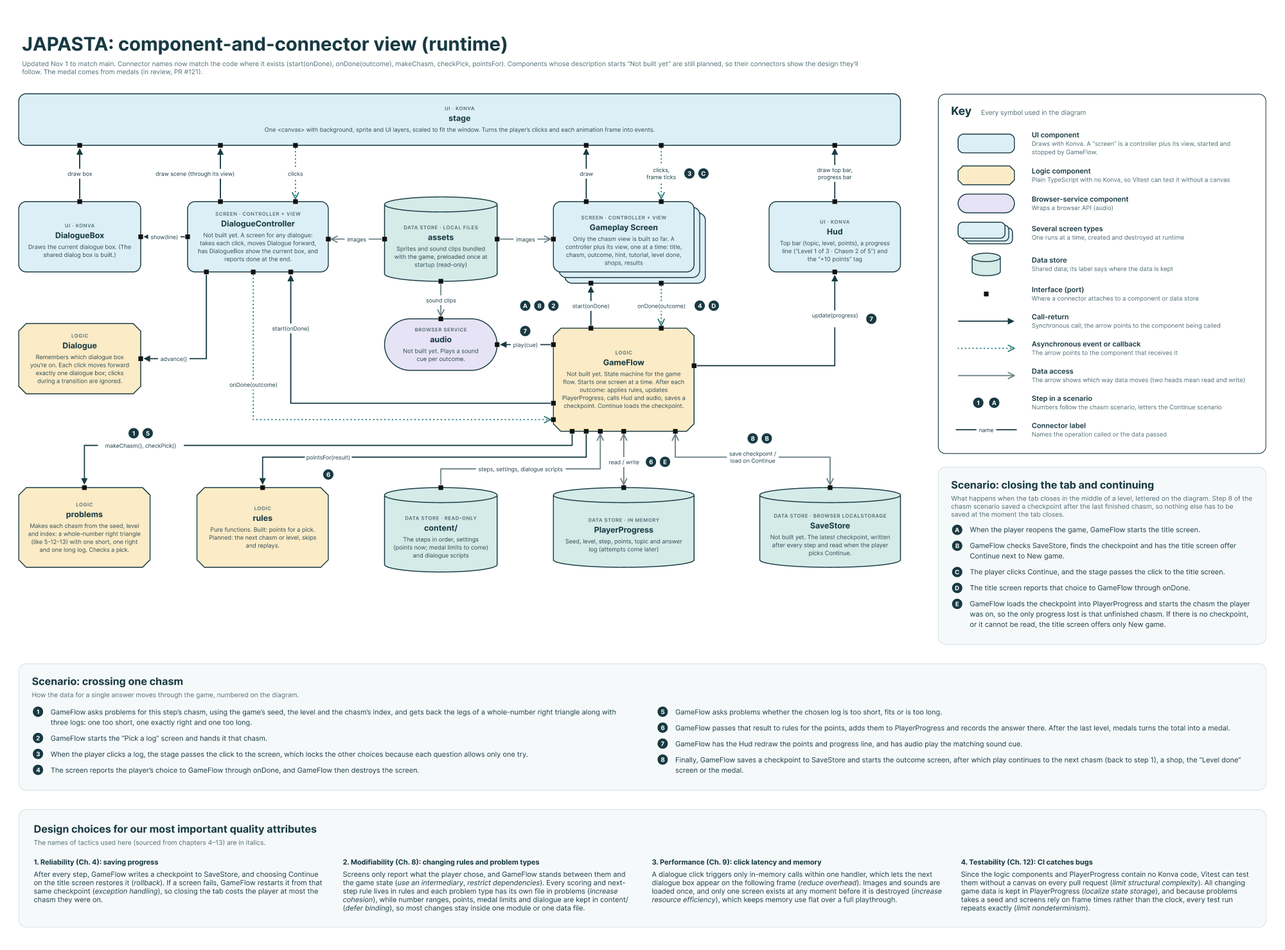
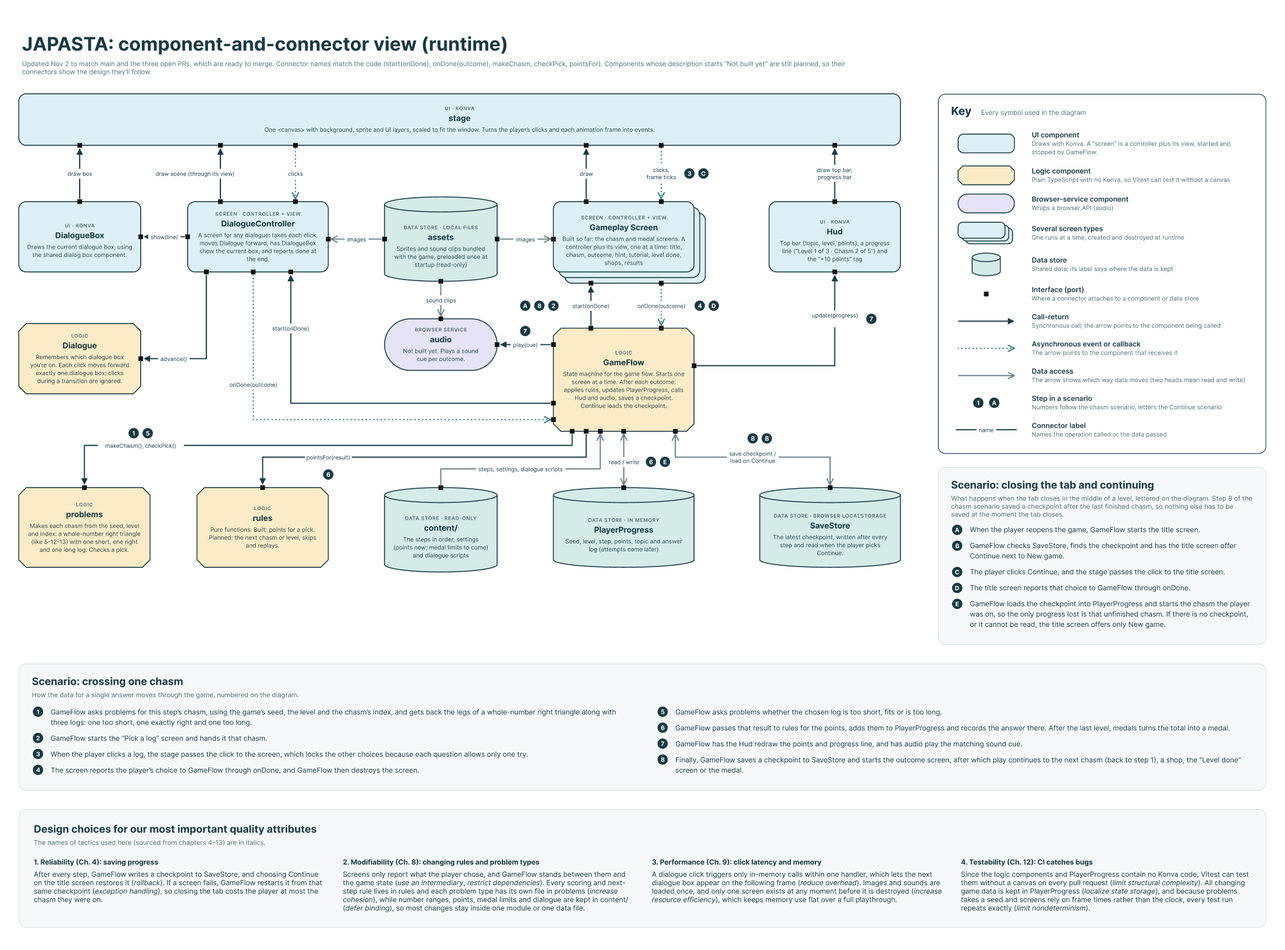
docs: update the READMEs for what merged at the end of Sprint 1
Brings the root and folder READMEs up to date with main through #143, plus the two PRs that are ready to merge (#136 and #141):

- Root README: the project's state as of Nov 2, the new features (GameFlow, the three controllers, DialogueBox, levelDone, medals, MedalScreen and SaveStore), and the current in-progress (#150) and next-up work
- controller/: GameFlow and the screen controllers, now that they're built
- model/: levelDone, medals, SaveStore and removePoints
- view/: DialogueBox, MedalScreen and fitScale
- content/: the Level done scenes and all three settings
- docs/images: re-exported module and C&C views, with built modules no longer faded

diff --git a/README.md b/README.md
@@ -1,6 +1,6 @@
 # The Math Mountaineer
 
-Here comes a fun and educational game presented by JAPASTA! Students climb a mountain to find a missing friend, crossing each chasm by picking the log that fits, which is the hypotenuse of a right triangle. Built in TypeScript, with [Konva](https://konvajs.org/) drawing on a canvas, [Vite](https://vite.dev/) running and building the game, and [Vitest](https://vitest.dev/) for tests.
+We present a fun and educational game for all those 8th graders out there! Students climb a mountain to find a missing friend, crossing each chasm by picking the log that fits, which is the hypotenuse of a right triangle. Built in TypeScript, with [Konva](https://konvajs.org/) drawing on a canvas, [Vite](https://vite.dev/) running and building the game, and [Vitest](https://vitest.dev/) for tests.
 
 ---
 
@@ -18,9 +18,9 @@ Here comes a fun and educational game presented by JAPASTA! Students climb a mou
 
 ## Where the Project Stands
 
-*Written November 1, 2026*
+*Up-to-date as of November 2, 2026*
 
-We built and tested the pieces of the chasm, including the problems, the chasm screen, the points, the player's progress and the Hud. What we are currently working on is the part that joins them into a game. Next up are GameFlow, which plays the game's steps in order, and the controllers that run each screen. Until they land, `npm run dev` shows the game title and nothing more.
+We built and tested every piece of the core game, including the chasm problems and screen, the points and medals, the player's progress and its saving, the Hud, the dialogue, and GameFlow, which plays the game's steps in order with a controller for each screen. What we are currently working on is joining them in `main.ts`, which still draws only the game title. Until that lands, `npm run dev` shows the title and nothing more, and the quickest way to see the whole game's flow is `tests/controller/GameFlow.test.ts`.
 
 What this means for our team:
    - **Model, view, and content code can be built and tested on its own.** (Nothing in those folders needs the game to be running.)
@@ -65,7 +65,7 @@ These are the same two checks CI runs on every pull request, so if both pass on 
 These are grouped by what they're for. Each links to its section in the folder docs, which share greater detail.
 
 1. **The canvas and the look of the game**:
-   - [stage](src/view/README.md#stage): The game draws in a fixed 960 × 540 space, and the stage scales it to the largest 16:9 box that fits the browser window.
+   - [stage](src/view/README.md#stage): The game draws in a fixed 960 × 540 space, and the stage scales it to the largest 16:9 box that fits the browser window, with tests across many window sizes.
    - [theme](src/view/README.md#theme): Every color from the Figma mockups, and the text styles we use so far, kept in one place in the code.
    - [fonts and assets](src/view/README.md#fonts-and-assets): The Inter font and the game's images ship with the game and load once, before anything is drawn. Sounds will load the same way once they're added. A file that fails is swapped for a placeholder instead of stopping the game.
    - [Shared components](src/view/README.md#shared-components): The button, log button, top bar and dialog box from the mockups, for every screen to reuse.
@@ -76,14 +76,25 @@ These are grouped by what they're for. Each links to its section in the folder d
    - [rules](src/model/README.md#rules): Ensures only the log that fits earns the corresponding 10 points.
 
 3. **Story and progress**:
-   - [dialogueScripts](src/content/README.md#dialoguescripts): The intro and "how crossing works" scenes.
+   - [dialogueScripts](src/content/README.md#dialoguescripts): The intro, the "how crossing works" scene, and the two Level done messages.
    - [Dialogue](src/model/README.md#dialogue): Tracks which dialogue box is showing, one box per click, and ignores fast double clicks.
+   - [DialogueBox](src/view/README.md#dialoguebox): Shows each dialogue line in the shared dialog box, with a Continue button or the line's own choices.
    - [levels](src/content/README.md#levels): The game's steps in order: the title, the intro, 15 chasms over 3 levels, a Level done step after Levels 1 and 2, and the medal.
    - [PlayerProgress](src/model/README.md#playerprogress): The player's level, step, points, topic and every answer, in a form that can be saved.
+   - [SaveStore](src/model/README.md#savestore): Saves one checkpoint in the browser's storage and loads it back, refusing anything that isn't a valid save.
    - [Hud](src/view/README.md#hud): The top bar with topic, level and points, a "Level 1 of 3 · Chasm 2 of 5" line, and a "+10 points" tag after a correct pick.
 
-**In review**: the medal rules (PR #121), the medal screen (PR #136) and the tests for fitting the stage to the window (PR #141).\
-**Next up**: GameFlow (#6), ChasmController (#24), DialogueController (#18), SaveStore (#67) and publishing the game to GitHub Pages (#9).
+4. **The end of a level, and of the game**:
+   - [levelDone](src/model/README.md#leveldone): Picks the Level done message from the points earned on that level, either congratulations or an offer to restart it, and fills in the level number.
+   - [medals](src/model/README.md#medals): Turns the final points into a diamond, gold, silver or bronze medal (or none), using the limits in settings.
+   - [MedalScreen](src/view/README.md#medalscreen): Draws the medal the player earned, the medal requirements, and a See Results button.
+
+5. **Running the game**:
+   - [GameFlow](src/controller/README.md#gameflow): Plays every step in order, one screen at a time, and decides what happens after each one, including scoring a pick, restarting a level, and saving a checkpoint.
+   - [The screen controllers](src/controller/README.md#the-screen-controllers): ChasmController, DialogueController and MedalController each run one kind of screen for GameFlow.
+
+**In progress**: joining everything in `main.ts`, so the game plays from the intro to the medal (#150).\
+**Next up**: publishing the game to GitHub Pages (#9), and, in Sprint 2, the title screen (#70), the sounds (#25), the "How to find the right log" screen (#48), and the shops.
 
 ---
 
@@ -94,12 +105,12 @@ These are grouped by what they're for. Each links to its section in the folder d
 
 We follow MVC, with a fourth folder for data. Each of these is a folder in `src/` and offers its own README:
 
-1. **[model/](src/model/README.md)**: Stores and offers game state and math in plain TypeScript, with no drawing, allowing it to be tested without a browser. Herein live problems, rules, the dialogue position, and the player's progress.
+1. **[model/](src/model/README.md)**: Stores and offers game state and math in plain TypeScript, with no drawing, allowing it to be tested without a browser. Herein live problems, rules, medals, the dialogue position, the player's progress, and saving.
 2. **[view/](src/view/README.md)**: Handles everything drawn with Konva. A view may read the model to know what to draw and reports clicks through callbacks it's given, but it never decides what a click means or changes game state.
-3. **[controller/](src/controller/README.md)**: Decides what happens next. GameFlow will play the game's steps one screen at a time, and every screen follows the same `Screen` contract. For each one, GameFlow starts it, and it reports back once, via `onDone`, with what the player chose.
+3. **[controller/](src/controller/README.md)**: Decides what happens next. GameFlow plays the game's steps one screen at a time, and every screen follows the same `Screen` contract. For each one, GameFlow starts it, and it reports back once, via `onDone`, with what the player chose.
 4. **[content/](src/content/README.md)**: Has the game's text and numbers as data, so changing the story or a point value never requires editing the game code itself.
 
-`main.ts` brings it all together. It waits for the images and fonts, creates the stage, and (once GameFlow lands) starts the game.
+`main.ts` brings it all together. Today, it waits for the images and fonts and creates the stage. Next, it will create GameFlow, along with a screen for each kind of step, and start the game.
 
 **What may use what**\
 The arrows in the diagram are rules we follow: `controller/` may use the other three; `view/` may read `model/` and `content/`; `model/` may read `content/`; and `content/` uses nothing. Only `main.ts` uses `controller/`. Our reviews treat breaking one of these as a must-fix.
@@ -117,7 +128,7 @@ src/
   model/           Game state and math (no Konva!)
   view/            Everything drawn with Konva
     components/    The shared button, log button, top bar and dialog box
-  controller/      The Screen contract; GameFlow and the controllers come next
+  controller/      GameFlow, the Screen contract, and one controller per kind of screen
   content/         Level steps, dialogue scripts and settings
 tests/             Mirrors src/, with one test file per module
 public/assets/     Images (and soon sounds), served as they are

diff --git a/src/controller/README.md b/src/controller/README.md
@@ -10,18 +10,18 @@ May import `model/`, `view/`, and `content/`. Nothing else imports from here exc
 
 - [Overview](#overview)
 - [Screen](#screen)
-- [GameFlow (in progress)](#gameflow-in-progress)
-- [The screen controllers (in progress)](#the-screen-controllers-in-progress)
+- [GameFlow](#gameflow)
+- [The screen controllers](#the-screen-controllers)
 - [Crossing one chasm, start to finish](#crossing-one-chasm-start-to-finish)
 
 ---
 
 ## Overview
 
-This is the folder that turns our separate screens into a game. Right now, it holds one file, the `Screen` contract, which everything else is being built against. GameFlow and the controllers are the next pieces to land, so the sections below describe the design they will follow.
+This is the folder that turns our separate screens into a game. It holds the `Screen` contract, GameFlow, which plays the game's steps, and a controller for each kind of screen built so far. The last piece is in `main.ts`, which still needs to create GameFlow with a screen for each step and start it.
 
 <img src="../../docs/images/cc-view.png" width="900" />\
-*The runtime (C&C) view, showing what talks to what while the game runs. Connector names match the code where it exists, and components marked "Not built yet" show the design. View the live version in [Figma](https://www.figma.com/design/LLtfHewfTMLycUXFUVuyEH).*
+*The runtime (C&C) view, showing what talks to what while the game runs. Connector names match the code, and components marked "Not built yet" show the design. View the live version in [Figma](https://www.figma.com/design/LLtfHewfTMLycUXFUVuyEH).*
 
 ---
 
@@ -39,36 +39,48 @@ Each screen reports an `Outcome`, which is either `done` or a `choice` holding t
 
 ---
 
-## GameFlow (in progress)
+## GameFlow
 
 **Purpose**\
-Runs the whole game by playing the steps in `content/levels` in order, one screen at a time, and deciding what happens after each one. It is the only thing that changes `PlayerProgress` ([#6](https://github.com/ilovelogic/the-math-mountaineer-team-7/issues/6)).
+Runs the whole game by playing the steps in `content/levels` in order, one screen at a time, and deciding what happens after each one. It is the only thing that changes `PlayerProgress`.
 
-**After each screen**\
-Checks the player's choice with `model/problems`, turns it into points with `model/rules`, and updates `PlayerProgress`, the Hud, and the sound. Once SaveStore lands, it also saves a checkpoint after every step, so a closed tab loses at most the current chasm ([#68](https://github.com/ilovelogic/the-math-mountaineer-team-7/issues/68)).
+**What it's given**
+   - `steps`: The game's script from `content/levels`.
+   - `progress`: The player's `PlayerProgress`, new or loaded from a save.
+   - `makeScreen`: A function that turns a `ScreenRequest` into a `Screen`. A request is a step with everything its screen needs filled in, such as the chasm built from the game's seed, or the points earned on a level for its Level done message.
+   - **Options** (each optional, so tests pass only what they check): the Hud to keep up to date, a `save` function such as SaveStore's, and a `playCue` function for the sound after a pick.
+
+**After each screen**
+   - **After a chasm**, GameFlow checks the pick with `model/problems`, turns it into points with `model/rules`, records the answer and adds the points to `PlayerProgress`, and then has the Hud redraw and show its "+ points" tag.
+   - **After a Level done message** where the player missed points and chose to restart, it takes back that attempt's points (so they can be earned again) and goes back to the level's first chasm. Choice 0 means restart, matching the order in `model/levelDone`.
+   - **After any step**, it saves a checkpoint that points at the step to play next, so a closed tab loses at most that step.
+
+**Reports that arrive late**\
+GameFlow counts each time a screen starts or stops, and ignores anything reported by a screen that's no longer current. As a result, a slow click on a screen that has already ended can never move the game forward twice.
 
 **Testing it**\
-GameFlow gets its screens through a function it's given. Accordingly, its tests can pass in stand-in screens that report a choice right away, which lets us test GameFlow before the real screens are wired up.
+GameFlow gets its screens through `makeScreen`. Accordingly, its tests pass in stand-in screens that report a choice right away, which lets us test the whole game's flow without drawing anything. `newSeed` takes its random numbers as a parameter for the same reason, so a test can start a game with a fixed seed.
 
 ---
 
-## The screen controllers (in progress)
+## The screen controllers
 
 Each one pairs a view from `view/` with the `Screen` contract:
-   - **ChasmController**: Shows one chasm, takes only the first pick, locks the logs, and reports the pick ([#24](https://github.com/ilovelogic/the-math-mountaineer-team-7/issues/24)).
-   - **DialogueController**: Shows any dialogue scene one box per click and reports when it ends, including which button was picked on a Level done screen ([#18](https://github.com/ilovelogic/the-math-mountaineer-team-7/issues/18)).
-   - **MedalController**: Shows the earned medal at the end of the game ([#43](https://github.com/ilovelogic/the-math-mountaineer-team-7/issues/43)).
-   - **TitleController, DuelShopController, and ZiplineShopController**: Run the title screen and the two shop mini-games, which are planned for Sprint 2.
+   - **ChasmController**: Shows one chasm, takes only the first pick, locks the logs, and reports the pick. It works with any `ChasmView` (anything with `draw`, `onLogClicked`, `lock` and `destroy`), so its tests use a fake view instead of `ChasmScreen`.
+   - **DialogueController**: Plays one dialogue scene, from `content/dialogueScripts` or `model/levelDone`, one box per click, and reports when it ends, including which button was picked on a box with choices. The click time comes from a clock it's given, so tests can use a fake one, and the transition length comes from `settings`.
+   - **MedalController**: Works out the medal from the player's points with `model/medals`, has `MedalScreen` draw it, and reports `done` once when the player presses See Results. It reads the points when it starts, so it can be created before the last chasm is scored.
+
+**Still to come**: TitleController (#70), the controller for the "How to find the right log" screen (#48), and DuelShopController and ZiplineShopController for the two shop mini-games, planned for Sprint 2.
 
 ---
 
 ## Crossing one chasm, start to finish
 
-Once GameFlow and ChasmController are in place, a single answer moves through the game as follows:
+A single answer moves through the game as follows:
    1. GameFlow asks `problems` for this step's chasm, using the game's seed, the level, and the chasm's position.
    2. GameFlow starts ChasmController with that chasm, and ChasmController has ChasmScreen draw it.
    3. The player clicks a log. ChasmController takes that first pick, locks the logs on ChasmScreen (since each chasm allows only one pick), and reports the log's position to GameFlow via `onDone`.
    4. GameFlow asks `problems` whether that log fits, is too short, or is too long.
    5. GameFlow gets the points from `rules`, adds them to `PlayerProgress`, and records the answer.
-   6. GameFlow has the Hud redraw and plays the matching sound.
+   6. GameFlow has the Hud redraw and plays the matching sound (once the sounds are added).
    7. GameFlow saves a checkpoint and moves on to the next step.

diff --git a/src/model/README.md b/src/model/README.md
@@ -1,6 +1,6 @@
 # model/
 
-Maintains the game state and math in plain TypeScript. From it, get problems, rules, medals, `Dialogue`, `PlayerProgress` and `SaveStore` (medals and `SaveStore` are still to come).
+Maintains the game state and math in plain TypeScript. From it, get problems, rules, medals, the Level done messages, `Dialogue`, `PlayerProgress` and `SaveStore`.
 
 Never imports Konva, `view/` or `controller/`, so every model runs in Vitest without a browser. Take seeds and times as parameters instead of calling `Math.random()` or `Date.now()`.
 
@@ -13,6 +13,9 @@ Never imports Konva, `view/` or `controller/`, so every model runs in Vitest wit
 - [Dialogue](#dialogue)
 - [problems](#problems)
 - [rules](#rules)
+- [levelDone](#leveldone)
+- [medals](#medals)
+- [SaveStore](#savestore)
 - [Still to come](#still-to-come)
 
 ---
@@ -42,6 +45,7 @@ Where the player is and how they're doing. Here, we have the game's seed, the cu
    - **`addPoints`** adds to the total. Zero is allowed, since a wrong pick earns nothing, but a negative number is refused.
    - **`moveTo`** goes to another step, and also changes the level and topic when a new level starts.
    - **`recordAnswer`** adds a pick to `answers`.
+   - **`removePoints`** takes points back when the player restarts a level, so its points can be earned again. The answers stay, since they're the record of every pick, and it never takes more than the player has.
 
 **Saving**\
 `toJSON` turns the progress into plain data that's safe to store, and `fromJSON` rebuilds it, refusing anything that isn't a valid save. The saved data carries a version number, so a later save format can tell old saves apart.
@@ -90,9 +94,44 @@ Small, pure rules that turn outcomes into points and, later, into decisions abou
 
 ---
 
+## levelDone
+
+**Purpose**\
+Gives GameFlow the dialogue for the end of Levels 1 and 2.
+
+**How it works**\
+**`levelDoneLines`** takes the level, the points earned on that level alone (not the game's total), and the most the player could have earned on it. A player with every point is congratulated with one button to continue, and anyone short of that is offered a restart. The words themselves live in `content/dialogueScripts`, with `{level}` marking where the level number goes.
+
+**The choices**\
+On the restart offer, choice 0 restarts the level and choice 1 moves on. GameFlow reads the choice by its position, so a test pins that order, and reordering the buttons in content fails it instead of quietly changing what they do.
+
+---
+
+## medals
+
+**Purpose**\
+Turns the final points into a medal, which is diamond, gold, silver, bronze, or none.
+
+**How it works**\
+**`medalFor`** takes the points and the medal limits from `content/settings` (150, 135, 105 and 75 today), and gives the best medal whose limit the points reach. It refuses negative points, and limits that don't strictly decrease from diamond down to bronze, since either one means a mistake somewhere else.
+
+---
+
+## SaveStore
+
+**Purpose**\
+Puts one checkpoint into the browser's storage and gets it back, so closing the tab doesn't lose the player's progress.
+
+**The storage is passed in**\
+In the game, `main.ts` will pass in the browser's `localStorage`. In the tests, a pretend storage stands in, one that can be empty, hold garbage, or refuse to work, so every failure case is tested without a browser.
+
+**When something goes wrong**\
+**`save`** fails quietly if storage is blocked. **`load`** returns `null` when there's no save, when the save can't be read, or when it isn't a valid save, since it checks each one with `PlayerProgress.fromJSON`. As a result, anything `load` does return is safe to continue from.
+
+---
+
 ## Still to come
 
-   - **medals**: Turns the final points into a medal. In review in PR #121.
-   - **SaveStore**: Saves one checkpoint in the browser's storage and loads it back (#67). Saving after every step (#68) and the Continue button (#70) come later and will use it.
+   - **solutionSteps** (#48): The worked steps for finding the right log, using the chasm's own numbers, for the "How to find the right log" screen.
    - **More problem types**: The duel question (#56), which goes in `problems`, and the 3D zipline problem (#62), which gets its own file next to it.
    - **More rules**: Skipping a level after winning the duel (#58), the zipline's points (#63), and the easier round after struggling (#88).

diff --git a/src/view/README.md b/src/view/README.md
@@ -16,6 +16,8 @@ May import Konva, other `view/` files, and `model/` or `content/` to read what t
 - [Shared components](#shared-components)
 - [Screens and the Hud](#screens-and-the-hud)
   - [ChasmScreen](#chasmscreen)
+  - [DialogueBox](#dialoguebox)
+  - [MedalScreen](#medalscreen)
   - [Hud](#hud)
 - [Still to come](#still-to-come)
 
@@ -40,7 +42,7 @@ Creates the game's one Konva stage, inside the page's `game` element, with three
    - `ui`: Buttons, boxes and the Hud.
 
 **Fitting the window**\
-The stage is scaled to the largest 16:9 box that fits the browser window, and rescaled whenever the window changes size. Views keep using 960 × 540 coordinates, and Konva maps clicks back through the scale.
+The stage is scaled to the largest 16:9 box that fits the browser window, and rescaled whenever the window changes size. Views keep using 960 × 540 coordinates, and Konva maps clicks back through the scale. The scale itself comes from **`fitScale`**, a small function kept apart from the resizing so its tests can check many window sizes without a browser.
 
 **How it's used**\
 `main.ts` calls **`createStage`** once at startup. Views receive its layers instead of making their own, and only this file creates a stage (a test checks that).
@@ -92,6 +94,22 @@ The stage's layers and a chasm to draw: its two sides and the log lengths, in th
 **What it reports**\
 Each click on a log button reports that log's position in the list. Once its controller **`lock`**s it, it stops reporting clicks and shows the picked log as used. **`destroy`** removes everything it drew.
 
+### DialogueBox
+
+**Purpose**\
+Shows one dialogue line at a time in the shared dialog box. A line with no choices gets a Continue button, while a line that ends a scene, like a Level done message, shows its own choices instead.
+
+**What it reports**\
+Either way, a click reports the button's position, and the DialogueController decides what it means. **`destroy`** removes the box. The speaker's name isn't drawn yet, since every line so far is the Narrator's.
+
+### MedalScreen
+
+**Purpose**\
+Draws the end screen like the "End: medal" mockup, which is made up of the medal the player earned, a sentence about it, the medal requirements, and a See Results button.
+
+**How it's used**\
+**`drawMedalScreen`** is given the stage's layers, the medal and points (which MedalController works out), and a callback for See Results. It returns a function that removes everything it drew, to call when the screen ends. For now, it draws its own mountain background; the mockup uses the glacier background instead, which #138's plan to load backgrounds as images would fix.
+
 ### Hud
 
 **Purpose**\
@@ -104,7 +122,7 @@ GameFlow calls **`update`** with the latest progress whenever it changes, and **
 
 ## Still to come
 
-   - **MedalScreen**: The end screen with the medal and results. In review in PR #136.
+   - **The solution view** (#48): The "How to find the right log" screen, with the triangle and the worked steps.
    - **audio**: Plays one sound per outcome (#25), once the sound library (#102) lands.
-   - **DialogueBox, TitleScreen, ShopScreen, ZiplineDiagram**: The views for the dialogue, title and shop screens (#18, #70, #52, #61).
+   - **TitleScreen, ShopScreen, ZiplineDiagram**: The views for the title and shop screens (#70, #52, #61).
    - **Background images**: The plan in #138 is to load backgrounds as images exported from Figma, instead of drawing mountains in code, so every screen shares one copy of the art.

diff --git a/src/content/README.md b/src/content/README.md
@@ -41,7 +41,7 @@ Starts with the title, the intro, and the "how crossing works" scene, followed b
 ## dialogueScripts
 
 **Purpose**\
-Stores the story text, with one scene per key. Each scene is a list of boxes, and each box has a speaker and a line of text. Today, there are two scenes, which are `intro` (the avalanche and the missing friend) and `howCrossingWorks` (how to pick a log).
+Stores the story text, with one scene per key. Each scene is a list of boxes, and each box has a speaker and a line of text. Today, there are four scenes, which are `intro` (the avalanche and the missing friend), `howCrossingWorks` (how to pick a log), and the two Level done messages, `levelDoneAllPoints` and `levelDoneUnder100`. The Level done scenes mark where the level number goes with `{level}`, which `model/levelDone` fills in, so the same words serve every level.
 
 **Adding a scene**\
 Add a new key with its boxes, and then add a `dialogue` step naming that key in `levels`.
@@ -51,4 +51,4 @@ Add a new key with its boxes, and then add a `dialogue` step naming that key in 
 ## settings
 
 **Purpose**\
-Keeps the values we expect to tweak while playtesting, each with a comment explaining what it does. Today, that's `pointsPerChasm` (10, matching the "+10" in the mockups) and `medalLimits` (the points for each medal, matching the Medal requirements card). Feature toggles will join them as those features land.
+Keeps the values we expect to tweak while playtesting, each with a comment explaining what it does. Today, that's `pointsPerChasm` (10, matching the "+10" in the mockups), `medalLimits` (150, 135, 105 and 75, which are 100%, 90%, 70% and 50% of the 150 points a player can earn, matching the Medal requirements card), and `dialogueTransitionMs` (250, how long clicks are ignored after a dialogue box changes). Feature toggles will join them as those features land.
